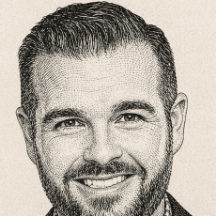
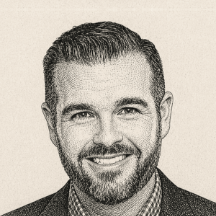
/book/: reframe the advisor portrait, and seat the scheduler in its card
Two visual defects on the booking page, both measured rather than eyeballed.

PORTRAIT. The "Who you'll talk to" thumbnail clipped the crown flat and ran
the beard off the bottom edge. Thresholding the 768px source puts the hair at
y=33, the head at x=195..554 and the beard at y~530; the old crop {155,30,460}
started 3px above the hair and ended at y=490. New window is 600px centred on
the head, hair 60px down (10% air), beard 43px clear of the bottom.

The source has only 33px of paper above the hair — 4.3% of its own height — so
no crop of it reaches 10% air without clipping the ears. build-portrait-sq.mjs
now mirrors 27 rows of the source's own top band above row 0, which keeps the
grain and vignette and seams invisibly because row 0 maps to itself. PAD must
stay under 33 or the band picks up the hair as a floating blob.

Separately, the thumbnail was never square: the flex item is the <picture>, not
the <img>, so `flex: none` applied to a box flex does not size. The wrapper
shrank to 46px and the global `img { max-width: 100% }` squeezed the portrait
with it, cropping the sides of the head. Now 72x72 at every width 320..1440.

SCHEDULER. calUrl() handed Calendly `background_color: --paper` (#F0EBE1) while
the embed sits inside .formcard, which is --paper-card (#F6F3ED) — a 6/255
darker rectangle with a straight edge across the full width of the panel.
Measured in situ off the live iframe. Both the param and the .cal-embed wrapper
[…]

diff --git a/book/index.html b/book/index.html
@@ -229,6 +229,11 @@
 /* the two-column booking layout */
 .book { display: grid; grid-template-columns: 1.08fr 0.92fr; gap: clamp(28px, 4vw, 52px); align-items: start; }
 .advisor { display: flex; gap: 14px; align-items: flex-start; }
+/* The FLEX ITEM is the <picture>, not the <img> — so `flex: none` below never
+   applied to the box that flex sizes. The wrapper shrank to 46px and the global
+   `img { max-width: 100% }` (styles.css) squeezed the portrait with it, so
+   object-fit: cover cropped the sides of the head off a square asset. */
+.advisor > picture { flex: none; display: block; }
 .advisor__portrait { width: 72px; height: 72px; flex: none; object-fit: cover; border: 1px solid var(--hairline); background: var(--paper-2); display: block; filter: saturate(0); mix-blend-mode: multiply; }
 .advisor__tx h3 { font-size: var(--fs-16); font-weight: 800; letter-spacing: -0.01em; }
 .advisor__tx p { font-size: var(--fs-13); color: var(--tx-mute); margin-top: 5px; line-height: 1.55; }
@@ -243,7 +248,11 @@
    iframe exists: the frame is absolutely positioned, so it is out of flow and
    contributes nothing to this box either way. The card measures 720px on the
    parse, on the mount and on the load — the swap cannot shift the page. */
-.cal-embed { position: relative; margin-top: var(--s-16); min-height: 720px; border: 1px solid var(--line); background: var(--paper); }
+/* background is --paper-card to match .formcard around it, and to match the
+   background_color this page hands Calendly — see calUrl(). --paper here put a
+   6/255-darker panel inside the card, and flashed that same wrong cream behind
+   the loading placeholder before the iframe painted over it. */
+.cal-embed { position: relative; margin-top: var(--s-16); min-height: 720px; border: 1px solid var(--line); background: var(--paper-card); }
 /* The branded placeholder. It comes off (the .is-ready class) when CALENDLY
    PAINTS — its `calendly.event_type_viewed` postMessage — not on the iframe's
    own `load` event, which fires 1–2s before the app renders and left a blank
@@ -500,8 +509,8 @@
           <h2 class="panel__t">Who you’ll talk to</h2>
           <div class="advisor">
             <picture>
-              <source type="image/webp" srcset="/images/christopher-myers-hedcut-sq.webp?v=2" />
-              <img class="advisor__portrait" src="/images/christopher-myers-hedcut-sq.png?v=2" alt="Engraved portrait of Christopher Myers, founder of Main &amp; Machine" width="72" height="72" loading="lazy" decoding="async" />
+              <source type="image/webp" srcset="/images/christopher-myers-hedcut-sq.webp?v=3" />
+              <img class="advisor__portrait" src="/images/christopher-myers-hedcut-sq.png?v=3" alt="Engraved portrait of Christopher Myers, founder of Main &amp; Machine" width="72" height="72" loading="lazy" decoding="async" />
             </picture>
             <div class="advisor__tx">
               <h3>Christopher Myers</h3>
@@ -963,31 +972,69 @@
   // Brand-matched embed (Calendly's supported theming params) + the
   // qualifying answer prefilled into the booking form's first question (a1).
   //
-  // THESE THREE COLOURS ARE CURRENTLY INERT, and that is a Calendly plan limit,
-  // not a bug here. Measured 2026-08-09 by loading the real booking page three
-  // ways — with these values, with the previous ones, and with no colour params
-  // at all: all three render the identical white card with #006BFF date pills
-  // and navy headings, and all three show the "POWERED BY Calendly" corner
-  // ribbon. background_color / text_color / primary_color are honoured only on
-  // paid plans, and removing the badge is the same kind of switch — an account
-  // setting, with NO embed parameter behind it. Do not go looking for one, and
-  // do not try to reach into the iframe: it is cross-origin by design.
-  // They are set correctly anyway so the embed matches the palette the day the
-  // plan changes. Re-check with the three-way load above before concluding the
-  // values are wrong.
+  // THESE THREE COLOURS ARE LIVE as of 2026-08-10. They were inert until then —
+  // a Calendly plan limit, not a bug here — and this comment said so. The plan
+  // changed and the note went stale, which is worse than never having written
+  // it: it told the next person the params could not work.
+  //
+  // Re-measured 2026-08-10 the same three ways the original note prescribed,
+  // loading the REAL booking page each time:
+  //
+  //   no colour params           →  white card, #006BFF blue pills, navy heads
+  //   these values               →  cream card, rust pills        ← what ships
+  //   f5f1e8/211a14/c2431f       →  cream card, rust pills (indistinguishable;
+  //                                 an off-palette set that was proposed once)
+  //
+  // So the three-way load is still the way to check this, and it is still the
+  // only way — do not try to reach into the iframe, it is cross-origin by design.
+  //
+  // The "POWERED BY Calendly" corner ribbon is UNCHANGED and still shows on all
+  // variants. That part of the original note holds: removing the badge is an
+  // account setting with no embed parameter behind it. Do not go looking for one.
   //
   // READ FROM THE TOKENS, don't retype the palette. These were three hex
   // literals, and none of the three actually matched the canonical colour it
   // was standing in for — close enough to look right in a diff, wrong enough
   // that the embed would have drifted from the site the moment a token moved.
-  // styles.css is the source of truth for --paper / --ink / --accent, so the
-  // params are derived from it at runtime; the literals below are the same
-  // three canonical values, kept only as a fallback for the case where the
-  // stylesheet has not applied. Calendly wants bare hex with no leading '#'.
+  // styles.css is the source of truth, so the params are derived from it at
+  // runtime; the literals below are the same canonical values, kept only as a
+  // fallback for the case where the stylesheet has not applied. Calendly wants
+  // bare hex with no leading '#'.
+  //
+  // background_color is --paper-card, NOT --paper, and the difference is
+  // visible. The embed sits inside .formcard, whose background is
+  // `color-mix(in srgb, var(--paper), #fff 40%)` = #F6F3ED. Painting the
+  // scheduler --paper (#F0EBE1) put a 6/255-darker rectangle inside that card —
+  // measured in situ off the live iframe: field #F0EBE1 against a #F6F3ED
+  // surround. Small, but it is a straight edge running the full width of the
+  // panel, which is exactly the kind of seam the eye finds. The .cal-embed
+  // wrapper below matches, so the loading state does not flash the other cream.
+  //
+  // **--paper-card is a color-mix(), so it does NOT serialise as hex.**
+  // getPropertyValue returns `color(srgb 0.96 0.95 0.93)` with 0..1 channels,
+  // and the old hex-only regex would have silently fallen through to the
+  // fallback — the failure mode being that the token stops tracking the palette
+  // while the code still looks like it reads it. Worse, an rgb()-shaped parser
+  // reads those 0..1 channels as BYTES and returns near-black; that trap has
+  // already cost this repo a phantom page of contrast failures. All three forms
+  // are parsed explicitly below.
   function brandHex(token, fallback){
     var v = getComputedStyle(document.documentElement).getPropertyValue(token).trim();
     var m = /^#?([0-9a-f]{6})$/i.exec(v);
-    return m ? m[1].toLowerCase() : fallback;
+    if(m) return m[1].toLowerCase();
+    // color(srgb r g b) — channels are 0..1, NOT 0..255.
+    m = /^color\(\s*srgb\s+([\d.]+)\s+([\d.]+)\s+([\d.]+)/i.exec(v);
+    if(m) return hex3(+m[1] * 255, +m[2] * 255, +m[3] * 255);
+    // rgb()/rgba() — channels are 0..255.
+    m = /^rgba?\(\s*([\d.]+)[\s,]+([\d.]+)[\s,]+([\d.]+)/i.exec(v);
+    if(m) return hex3(+m[1], +m[2], +m[3]);
+    return fallback;
+  }
+  function hex3(r, g, b){
+    return [r, g, b].map(function(n){
+      var v = Math.max(0, Math.min(255, Math.round(n))).toString(16);
+      return v.length < 2 ? '0' + v : v;
+    }).join('');
   }
   function calUrl(){
     var p = new URLSearchParams({
@@ -995,9 +1042,9 @@
       embed_type: 'Inline',
       hide_gdpr_banner: '1',
       hide_event_type_details: '1',
-      background_color: brandHex('--paper',  'f0ebe1'),
-      text_color:       brandHex('--ink',    '1b1611'),
-      primary_color:    brandHex('--accent', 'c6401e')
+      background_color: brandHex('--paper-card', 'f6f3ed'),
+      text_color:       brandHex('--ink',        '1b1611'),
+      primary_color:    brandHex('--accent',     'c6401e')
     });
     var q = qEl ? qEl.value.trim() : '';
     if(q) p.set('a1', q.slice(0, 500));

diff --git a/CLAUDE.md b/CLAUDE.md
@@ -1884,6 +1884,22 @@ panel — it dilutes the CTA.
   on. Re-adding a
   `data-fact="build-slots"` span would re-arm both guards and is still the
   route back if the slot count returns.
+- **Calendly: turn off "Remove Calendly branding" in the account settings.** The
+  `/book/` scheduler now matches the palette everywhere the embed lets us reach
+  — background and accent measured byte-identical to `--paper-card` and
+  `--accent` off the live iframe — with ONE exception: the "POWERED BY Calendly"
+  corner ribbon, which paints `#505960`, a cool blue-grey that appears nowhere
+  in the nine canonical colours. It is the only off-palette element left on the
+  card and it sits top-right at full contrast.
+  - **There is no embed parameter for it, verified rather than assumed.**
+    `hide_branding=1`, `hide_calendly_branding=1`, `hide_landing_page_details=1`
+    and `hide_branding=true` were each loaded against the real booking page:
+    the badge is present and visible in all four, byte-identical to baseline.
+    Do not go looking for a fifth spelling.
+  - It is an account switch on paid plans, in the same family as the colour
+    params. Those went live between 2026-08-09 and 2026-08-10 (the plan changed
+    — see the note above `calUrl()`), so this switch is likely available now.
+    Nothing in the repo can do it and nothing will warn when it becomes possible.
 - After deploy: resubmit sitemap.xml in Search Console and request indexing on the
   new pages.
 
